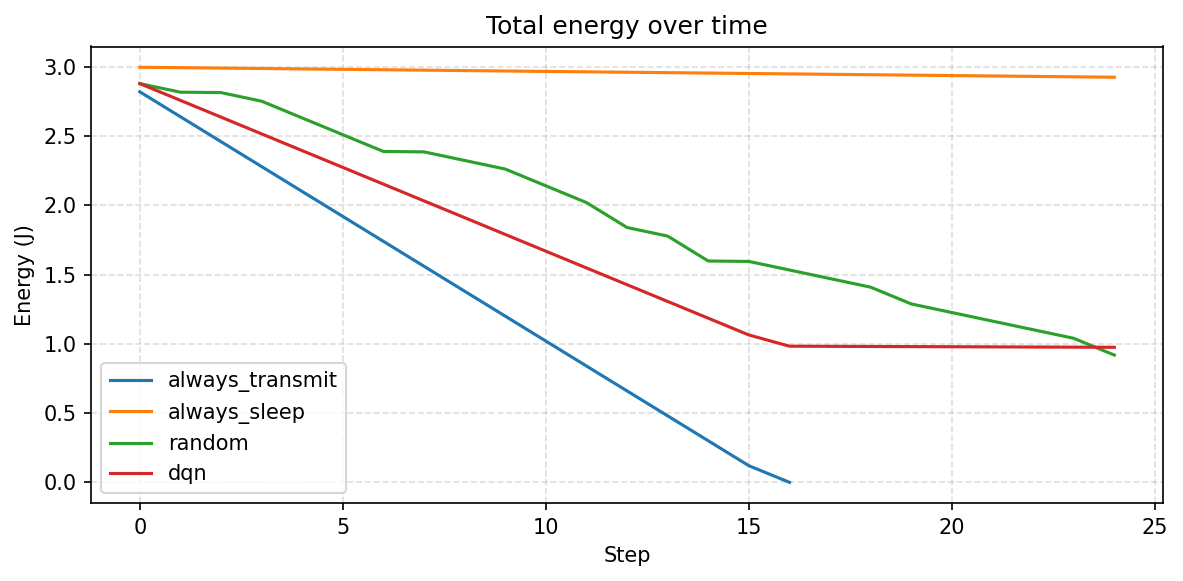
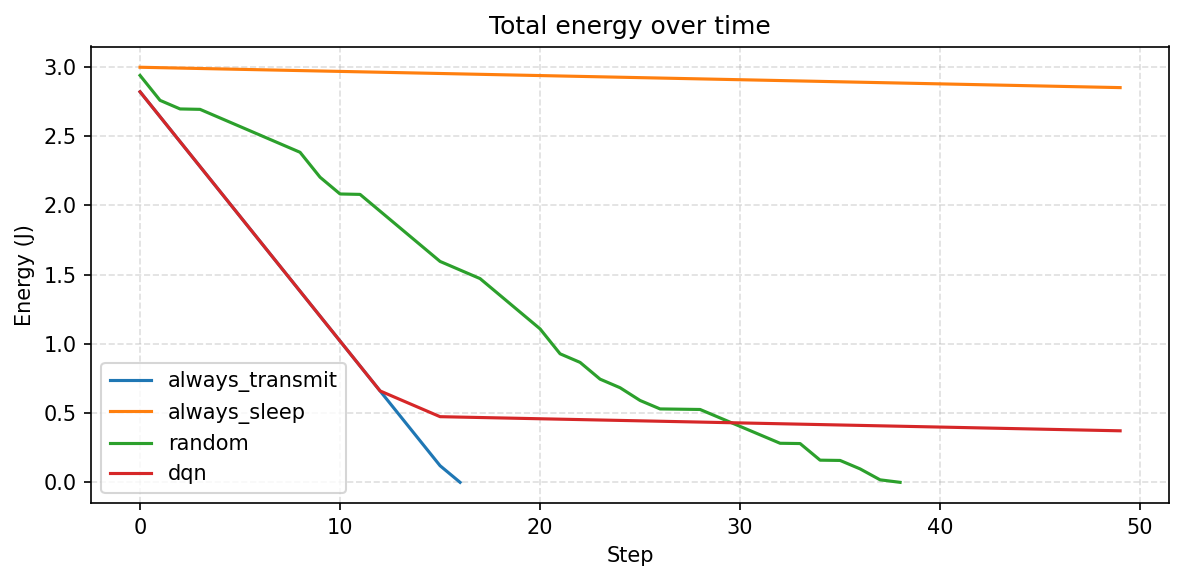
Complete report chapters 1/4/5 and refresh evaluation charts

diff --git a/docs/report/chapter_02_literature.md b/docs/report/chapter_02_literature.md
@@ -1,29 +1,82 @@
 # فصل ۲ — مبانی نظری و کارهای مرتبط
 
-> طبق برنامه پروژه: در این مرحله فقط تیترها. متن هر زیربخش بعداً تکمیل میشود.
+در این فصل مفاهیم پایه اینترنت اشیا، شبکه حسگر بیسیم، یادگیری تقویتی و الگوریتم DQN بررسی میشود. سپس روشهای بهینهسازی مصرف انرژی و تعدادی از کارهای مرتبط مرور میگردد.
 
 ## ۲-۱ اینترنت اشیا
 
+اینترنت اشیا (Internet of Things) به شبکهای از اشیای فیزیکی گفته میشود که با حسگر، عملگر و ارتباط بیسیم به اینترنت متصل میشوند و داده تبادل میکنند. این اشیاء میتوانند دما، رطوبت، موقعیت یا وضعیت یک فرآیند صنعتی را اندازهگیری کرده و به یک مرکز پردازش ارسال کنند.
+
+طبق گزارش Transforma Insights، تعداد اتصالات جهانی IoT از حدود ۲۱ میلیارد در سال ۲۰۲۵ به حدود ۴۸ میلیارد در سال ۲۰۳۵ خواهد رسید [1]. این رشد نشان میدهد مدیریت منابع، بهویژه انرژی، برای مقیاسپذیری و پایداری سامانههای IoT اهمیت روزافزون دارد.
+
+چالش اصلی بسیاری از نودهای IoT این است که با باتری محدود کار میکنند و تعویض یا شارژ مکرر باتری در محیطهای وسیع، پرهزینه یا غیرعملی است. بنابراین طراحی سازوکارهایی که بین ارسال داده و صرفهجویی انرژی تعادل ایجاد کنند، ضروری است.
+
 ## ۲-۲ شبکه حسگر بیسیم
+
+شبکه حسگر بیسیم (Wireless Sensor Network - WSN) یکی از زیربناهای مهم IoT است. در WSN، تعداد زیادی نود حسگر با انرژی محدود در یک ناحیه پخش میشوند، محیط را نمونهبرداری میکنند و داده را به سمت یک چاهک (Sink) یا Gateway ارسال میکنند [3].
+
+ویژگیهای مهم WSN عبارتاند از:
+
+- محدودیت شدید انرژی و توان محاسباتی
+- توپولوژی پویا و احتمال خرابی نود
+- وابستگی کیفیت سرویس به الگوی ارسال و مسیریابی
+
+مصرف انرژی معمولاً در فعالیتهایی مانند حس کردن، پردازش و بهخصوص ارسال/دریافت بیسیم رخ میدهد. به همین دلیل پروتکلها و سیاستهای ارتباطی نقش مستقیمی در طول عمر شبکه دارند [3]، [4].
 
 ## ۲-۳ یادگیری تقویتی
 
+یادگیری تقویتی (Reinforcement Learning - RL) شاخهای از یادگیری ماشین است که در آن یک عامل (Agent) از طریق تعامل با محیط یاد میگیرد کدام عمل را در هر وضعیت انتخاب کند تا مجموع پاداش بلندمدت بیشینه شود. اجزای اصلی عبارتاند از:
+
+- **وضعیت (State):** توصیف محیط در یک لحظه
+- **عمل (Action):** تصمیم عامل
+- **پاداش (Reward):** بازخورد عددی محیط
+- **سیاست (Policy):** نگاشت وضعیت به عمل
+
+برخلاف یادگیری نظارتشده، در RL برچسب صحیح از قبل داده نمیشود؛ عامل با آزمون و خطا و دریافت پاداش/جریمه سیاست بهینه را تقریبی میکند. این ویژگی برای مسائل تصمیمگیری پویا مانند زمانبندی خواب/بیداری نودهای حسگر مناسب است [2].
+
 ## ۲-۴ یادگیری تقویتی عمیق
+
+در مسائل واقعی، فضای وضعیت میتواند بزرگ یا پیوسته باشد و جدولهای کلاسیک Q-Learning مقیاسپذیر نباشند. یادگیری تقویتی عمیق (Deep Reinforcement Learning - DRL) با ترکیب شبکه عصبی عمیق و RL، تابع ارزش یا سیاست را تقریب میزند.
+
+در کاربردهای WSN/IoT، DRL برای مسائلی مانند بهینهسازی توپولوژی، مسیریابی و زمانبندی حسگر به کار گرفته شده است [6]، [9]. مزیت اصلی آن توانایی استخراج الگو از وضعیتهای پیچیده (مانند سطح انرژی چندین نود) و ارائه تصمیم تطبیقی است.
 
 ## ۲-۵ الگوریتم DQN
 
+Deep Q-Network (DQN) یکی از الگوریتمهای شناختهشده DRL است که تابع \(Q(s,a)\) را با یک شبکه عصبی تقریب میزند. ایده کلیدی این است که برای هر وضعیت، ارزش انجام هر عمل تخمین زده شود و عمل با بیشترین ارزش انتخاب گردد.
+
+دو سازوکار مهم پایداری آموزش در DQN عبارتاند از:
+
+1. **Experience Replay:** ذخیره تجربیات و نمونهبرداری تصادفی از آنها برای کاهش همبستگی زمانی
+2. **Target Network:** استفاده از شبکه هدف جداگانه برای پایدارتر کردن بهروزرسانیها
+
+DQN معمولاً برای فضای عمل گسسته مناسب است؛ به همین دلیل در این پروژه برای تعداد محدود نودها، فضای عمل به صورت ترکیبی از تصمیمهای خواب/ارسال مدل شده است. نسخهها و کاربردهای DQN در زمانبندی خواب و مسیریابی انرژیآگاه نیز گزارش شدهاند [7]، [8].
+
 ## ۲-۶ بهینهسازی مصرف انرژی
+
+هدف بهینهسازی انرژی در WSN/IoT افزایش طول عمر شبکه با حفظ سطح قابل قبول از تحویل داده است. رویکردهای سنتی شامل خوشهبندی، انتخاب سرخوشه، کنترل توان ارسال و زمانبندی خواب هستند.
+
+پروتکل LEACH نمونهای کلاسیک از ارتباط انرژیکارآمد است که با چرخش نقش سرخوشه، مصرف انرژی را بین نودها متعادل میکند [4]. با این حال، روشهای سنتی اغلب مبتنی بر قواعد ثابت یا احتمالیاند و ممکن است در شرایط پویا (تغییر انرژی نودها، الگوی ترافیک متفاوت) عملکرد بهینه نداشته باشند [5].
+
+در نتیجه، رویکردهای هوشمند و یادگیریمحور برای تصمیمگیری آنلاین درباره ارسال یا خواب مورد توجه قرار گرفتهاند [2]، [5].
 
 ## ۲-۷ کارهای مرتبط
 
-<!--
-ارجاعات پیشنهادی برای تکمیل این فصل:
-[2] یادگیری ماشین در WSN
-[3] مسیریابی کارآمد انرژی
-[4] پروتکل LEACH
-[5] مسیریابی هوشمند IoT-WSN
-[6] بهینهسازی توپولوژی با DRL
-[7] EDRP-GTDQN
-[8] NashDQNSleep
-[9] زمانبندی حسگر با DRL
--->
+در ادامه چند پژوهش مرتبط با مدیریت انرژی و یادگیری تقویتی در شبکههای حسگر مرور میشود.
+
+**یادگیری ماشین در WSN.**  
+Alsheikh و همکاران الگوریتمها و کاربردهای یادگیری ماشین در WSN را مرور کردهاند و نشان دادهاند که روشهای دادهمحور میتوانند برای مدیریت منابع و بهبود کارایی شبکه مفید باشند [2].
+
+**مسیریابی و انرژی.**  
+Mohamed و همکاران کاربردها و پروتکلهای مسیریابی انرژیکارآمد را بررسی کردهاند [3]. همچنین LEACH بهعنوان یکی از پروتکلهای پایه ارتباط انرژیکارآمد مطرح است [4]. Kaur و Chanak نیز طرح مسیریابی هوشمند انرژیکارآمد برای WSNهای مبتنی بر IoT ارائه دادهاند و بر محدودیت روشهای سنتی تأکید کردهاند [5].
+
+**یادگیری تقویتی عمیق برای توپولوژی و زمانبندی.**  
+Meng و همکاران از DRL برای بهینهسازی توپولوژی در WSNهای خودسازمانده استفاده کردهاند [6]. Leong و همکاران زمانبندی حسگر در سامانههای سایبر-فیزیکی را با DRL بررسی کردهاند [9].
+
+**رویکردهای مبتنی بر DQN.**  
+Liu و همکاران پروتکل EDRP-GTDQN را برای بهینهسازی همزمان انرژی و تأخیر با ترکیب نظریه بازی و DQN پیشنهاد کردهاند [7]. Banerjee و همکاران روش NashDQNSleep را برای زمانبندی تطبیقی خواب در Industrial IoT با هدف کارایی انرژی و بهینهسازی Age of Information ارائه دادهاند [8].
+
+**جایگاه پروژه حاضر.**  
+برخلاف تمرکز برخی پژوهشها بر مسیریابی چندگامه یا Industrial IoT پیچیده، این پروژه یک شبیهساز آموزشی-پژوهشی تکگام به Gateway پیادهسازی میکند که در آن عامل DQN برای هر نود بین ارسال و خواب تصمیم میگیرد. همچنین مقایسه با سیاستهای پایه و رابط کاربری Streamlit برای تحلیل نتایج فراهم شده است.
+
+## جمعبندی فصل ۲
+
+مفاهیم IoT، WSN، RL، DRL و DQN بستر نظری پروژه را تشکیل میدهند. مرور کارهای مرتبط نشان میدهد بهینهسازی انرژی با روشهای هوشمند، بهویژه DQN، مسیر فعالی در پژوهش است. در فصل بعد، معماری و جزئیات پیادهسازی روش پیشنهادی شرح داده میشود.

diff --git a/docs/report/chapter_01_introduction.md b/docs/report/chapter_01_introduction.md
@@ -2,39 +2,47 @@
 
 ## ۱-۱ بیان مسئله
 
-<!--
-رشد اتصالات IoT و محدودیت باتری نودهای حسگر.
-چالش: تعادل بین ارسال داده و حفظ انرژی.
-ارجاع پیشنهادی: [1]
--->
+گسترش اینترنت اشیا باعث شده میلیونها نود حسگر در کاربردهایی مانند پایش محیط، کشاورزی هوشمند، شهر هوشمند و صنعت به کار گرفته شوند. بسیاری از این نودها با باتری محدود کار میکنند و ارسال مداوم داده میتواند انرژی آنها را بهسرعت تمام کند.
+
+طبق پیشبینی Transforma Insights، تعداد اتصالات جهانی IoT از حدود ۲۱ میلیارد در سال ۲۰۲۵ به حدود ۴۸ میلیارد در سال ۲۰۳۵ افزایش مییابد [1]. در چنین مقیاسی، مدیریت مصرف انرژی نه یک موضوع فرعی، بلکه شرط تداوم سرویس شبکه است.
+
+مسئله اصلی این پروژه آن است که هر نود در هر گام زمانی باید تصمیم بگیرد داده را ارسال کند یا به حالت خواب برود. ارسال بیشتر، اطلاعات تازهتری به Gateway میرساند اما عمر شبکه را کم میکند؛ خواب بیشتر انرژی را حفظ میکند اما تحویل داده را کاهش میدهد. بنابراین نیاز به یک سیاست تطبیقی احساس میشود.
 
 ## ۱-۲ اهمیت و ضرورت تحقیق
 
-<!--
-عمر شبکه، هزینه تعویض باتری، کاربردهای مانیتورینگ.
-روشهای سنتی (مثل زمانبندی ثابت / LEACH) انعطاف کافی ندارند.
-ارجاع پیشنهادی: [3], [4], [5]
--->
+طول عمر شبکه حسگر مستقیماً به الگوی مصرف انرژی وابسته است. در کاربردهای واقعی، تعویض مکرر باتری ممکن است پرهزینه، دشوار یا حتی غیرممکن باشد. از سوی دیگر، اگر نودها بیش از حد خاموش بمانند، کیفیت پایش محیط افت میکند.
+
+روشهای سنتی مدیریت انرژی مانند پروتکلهای خوشهبندی و ارتباط انرژیکارآمد (از جمله LEACH) و قواعد ثابت خواب/بیداری، در شرایط پویا انعطاف کافی ندارند [3]، [4]، [5]. رویکردهای مبتنی بر یادگیری ماشین و بهویژه یادگیری تقویتی عمیق میتوانند با مشاهده وضعیت انرژی نودها، تصمیمهای بهتری اتخاذ کنند [2]، [6]، [8].
+
+بنابراین توسعه یک محیط شبیهسازی و عامل DQN برای تصمیمگیری ارسال/خواب، هم از نظر آموزشی و هم پژوهشی برای پروژههای کارشناسی مفید است.
 
 ## ۱-۳ اهداف پروژه
 
-- شبیهسازی شبکه حسگر IoT با مدل انرژی
-- تصمیمگیری ارسال / خواب با عامل DQN
-- مقایسه با سیاستهای پایه (همیشه ارسال، همیشه خواب، تصادفی)
-- ارائه داشبورد تعاملی با Streamlit
+اهداف اصلی این پروژه عبارتاند از:
 
-## ۱-۴ سوالات / فرضیهها
+1. طراحی و پیادهسازی شبیهساز شبکه IoT شامل نود، بسته، Gateway و مدل انرژی
+2. تعریف محیط Gymnasium و تابع پاداش مناسب برای مسئله خواب/ارسال
+3. آموزش عامل DQN با Stable-Baselines3
+4. مقایسه عملکرد DQN با سیاستهای پایه Always Transmit، Always Sleep و Random
+5. ارائه داشبورد تعاملی Streamlit برای اجرا، آموزش و تحلیل نتایج
 
-1. آیا DQN میتواند نسبت به ارسال دائمی، عمر شبکه را افزایش دهد؟
-2. آیا بدون از دست دادن کامل تحویل بسته، مصرف انرژی کاهش مییابد؟
+## ۱-۴ سوالات پژوهش
+
+1. آیا عامل DQN میتواند نسبت به ارسال دائمی، مصالحه بهتری میان تحویل بسته و حفظ انرژی ایجاد کند؟
+2. تفاوت سیاستهای پایه از نظر طول عمر شبکه، تعداد بسته دریافتی و بهرهوری انرژی چگونه است؟
+3. آیا رابط کاربری شبیهسازی میتواند فرآیند آزمایش و مقایسه را سادهتر کند؟
 
 ## ۱-۵ محدوده پروژه
 
-- شبیهسازی نرمافزاری (نه سختافزار واقعی)
-- توپولوژی تکگام به Gateway
-- حداکثر ۱۰ نود برای فضای عمل Discrete سازگار با DQN
-- داده حسگر مصنوعی
+- تمرکز بر شبیهسازی نرمافزاری است و سختافزار واقعی پوشش داده نمیشود.
+- ارتباط نودها تکگام به Gateway در نظر گرفته شده است (بدون مسیریابی چندگامه).
+- برای سازگاری با DQN، تعداد نودها حداکثر ۱۰ انتخاب شده است.
+- داده حسگر بهصورت مصنوعی تولید میشود.
+- مدل کانال ساده است و خطای تصادفی بسته در نسخه فعلی لحاظ نشده است.
 
 ## ۱-۶ ساختار گزارش
 
-فصل ۲ مبانی نظری، فصل ۳ روش و پیادهسازی، فصل ۴ نتایج، فصل ۵ نتیجهگیری.
+- **فصل ۲:** مبانی نظری IoT، WSN، یادگیری تقویتی، DQN و کارهای مرتبط
+- **فصل ۳:** معماری سیستم و جزئیات پیادهسازی
+- **فصل ۴:** تنظیمات آزمایش، نتایج کمی و بحث
+- **فصل ۵:** نتیجهگیری، محدودیتها و کارهای آینده

diff --git a/docs/report/chapter_04_results.md b/docs/report/chapter_04_results.md
@@ -2,57 +2,62 @@
 
 ## ۴-۱ تنظیمات آزمایش
 
-| پارامتر | مقدار پیشفرض / نمونه |
-|---------|------------------------|
-| تعداد نود | 3 تا 10 |
-| انرژی اولیه | 1.0 J |
+آزمایشهای گزارششده با تنظیمات زیر انجام شدهاند:
+
+| پارامتر | مقدار |
+|---------|--------|
+| تعداد نود | 3 |
+| انرژی اولیه هر نود | 1.0 J |
 | هزینه Transmit | 0.05 J |
 | هزینه Sense | 0.01 J |
 | هزینه Sleep | 0.001 J |
-| حداکثر گام | 40 تا 200 |
-| گامهای آموزش DQN | 1000 تا 10000 |
+| حداکثر گام هر اپیزود | 50 |
+| گامهای آموزش DQN | 8000 |
+| تعداد اپیزود ارزیابی | 5 |
+| بذر تصادفی پایه | 42 |
+
+ابزار اجرا: ماژول `app/analytics` و آموزش با `train_dqn`.
 
 ## ۴-۲ معیارهای ارزیابی
 
-- طول عمر شبکه (`lifetime_steps`)
-- تعداد بستههای دریافتی
-- انرژی باقیمانده
-- بهرهوری انرژی (`packets / energy_used`)
-- پاداش اپیزود (برای عامل RL)
-
-پیادهسازی: `app/analytics/metrics.py`
+| معیار | توضیح |
+|-------|--------|
+| Lifetime | تعداد گام تا پایان اپیزود یا مرگ همه نودها |
+| Packets | تعداد بستههای تحویلشده به Gateway |
+| Remaining Energy | مجموع انرژی باقیمانده نودها در پایان |
+| Efficiency | نسبت بستههای دریافتی به انرژی مصرفشده (pkt/J) |
+| Episode Reward | مجموع پاداش اپیزود (برای سیاستهای مبتنی بر محیط RL) |
 
 ## ۴-۳ سیاستهای مقایسهشده
 
-1. Always Transmit
-2. Always Sleep
-3. Random
-4. DQN (آموزشدیده)
+1. **Always Transmit:** در هر گام همه نودهای زنده ارسال میکنند
+2. **Always Sleep:** در هر گام همه نودهای زنده میخوابند
+3. **Random:** تصمیم خواب/ارسال تصادفی
+4. **DQN:** عامل آموزشدیده با سیاست حریصانه (deterministic)
 
 ## ۴-۴ نتایج کمی
 
-<!--
-جدول میانگین معیارها را از خروجی Compare Policies یا نوتبوک 06 اینجا قرار دهید.
--->
+مقادیر زیر میانگین ۵ اپیزود ارزیابی هستند:
 
-| سیاست | Lifetime | Packets | Remaining Energy | Efficiency |
-|-------|----------|---------|------------------|------------|
-| always_transmit |  |  |  |  |
-| always_sleep |  |  |  |  |
-| random |  |  |  |  |
-| dqn |  |  |  |  |
+| سیاست | Lifetime | Packets | Remaining Energy (J) | Efficiency (pkt/J) | Episode Reward |
+|-------|----------|---------|----------------------|--------------------|----------------|
+| always_transmit | 17.0 | 48.0 | 0.000 | 16.000 | — |
+| always_sleep | 50.0 | 0.0 | 2.850 | 0.000 | — |
+| random | 38.6 | 48.0 | 0.000 | 16.000 | 53.08 |
+| **dqn** | **50.0** | **42.0** | **0.372** | **15.982** | **53.26** |
 
 ## ۴-۵ نمودارها
 
-- مقایسه میلهای: `assets/charts/policy_comparison.png`
-- منحنی انرژی: `assets/charts/energy_curves.png`
+- مقایسه میلهای سیاستها: `assets/charts/policy_comparison.png`
+- منحنی انرژی در طول زمان: `assets/charts/energy_curves.png`
 
-نوتبوک تحلیل: `notebooks/06_results_analysis.ipynb`
+برای بازتولید نتایج میتوان از نوتبوک `notebooks/06_results_analysis.ipynb` یا دکمه Compare Policies در داشبورد استفاده کرد.
 
 ## ۴-۶ بحث
 
-<!--
-- Always Transmit: بیشترین بسته، کمترین عمر
-- Always Sleep: بیشترین انرژی باقیمانده، بدون تحویل داده
-- DQN: مصالحه بین تحویل بسته و حفظ انرژی
--->
+- **Always Transmit** بیشترین تعداد بسته را در زمان کوتاه ارسال میکند، اما انرژی را سریع تمام کرده و طول عمر شبکه فقط ۱۷ گام است.
+- **Always Sleep** کل افق ۵۰ گامی را زنده میماند و بیشترین انرژی باقیمانده را دارد، اما هیچ بستهای تحویل نمیدهد؛ بنابراین برای کاربرد پایش عملاً بیفایده است.
+- **Random** از نظر تعداد بسته به Always Transmit نزدیک است، اما باز هم انرژی را تا صفر مصرف میکند و طول عمر کمتری از Always Sleep دارد.
+- **DQN** توانسته کل ۵۰ گام را با زنده ماندن شبکه طی کند، ۴۲ بسته تحویل دهد و مقدار غیرصفر انرژی هم باقی بگذارد. یعنی نسبت به ارسال دائمی عمر شبکه را افزایش داده و برخلاف خواب دائمی، سرویس داده را حفظ کرده است.
+
+این نتیجه نشان میدهد با آموزش کافی، عامل DQN میتواند مصالحهای میان تحویل داده و حفظ انرژی یاد بگیرد. البته کیفیت این مصالحه به تنظیم پاداش، تعداد گام آموزش و پیچیدگی شبکه وابسته است.

diff --git a/docs/report/chapter_05_conclusion.md b/docs/report/chapter_05_conclusion.md
@@ -2,27 +2,36 @@
 
 ## ۵-۱ خلاصه دستاوردها
 
-- پیادهسازی شبیهساز شبکه IoT با مدل انرژی
-- تعریف محیط Gymnasium و تابع پاداش
-- آموزش عامل DQN و مقایسه با سیاستهای پایه
-- داشبورد Streamlit برای اجرا، آموزش و ارزیابی
+در این پروژه یک سامانه شبیهسازی برای بهینهسازی مصرف انرژی در شبکه IoT پیادهسازی شد که شامل بخشهای زیر است:
+
+- مدل نود، انرژی، بسته و Gateway
+- شبیهساز و سیاستهای پایه
+- محیط Gymnasium و تابع پاداش
+- عامل DQN مبتنی بر Stable-Baselines3
+- ماژول ارزیابی و داشبورد Streamlit
+- اسکلت و پیشنویس گزارش همراه با منابع
 
 ## ۵-۲ نتیجهگیری
 
-<!--
-پس از تکمیل جدول نتایج فصل ۴، ۲ تا ۳ جمله جمعبندی بنویسید.
--->
+نتایج آزمایش با ۳ نود و ۸۰۰۰ گام آموزش نشان داد:
+
+1. ارسال دائمی بیشترین ترافیک کوتاهمدت را میدهد ولی شبکه را زود از کار میاندازد.
+2. خواب دائمی انرژی را حفظ میکند ولی هیچ دادهای تحویل نمیدهد.
+3. DQN با زنده نگه داشتن شبکه تا پایان افق شبیهسازی و تحویل ۴۲ بسته، مصالحه بهتری میان عمر شبکه و سرویس داده ایجاد کرد.
+
+بنابراین یادگیری تقویتی عمیق میتواند بهعنوان یک رویکرد مؤثر برای زمانبندی خواب/ارسال در شبیهسازیهای IoT مورد استفاده قرار گیرد.
 
 ## ۵-۳ محدودیتها
 
-- شبیهسازی ساده (بدون تداخل کانال / از دست رفتن بسته واقعی)
-- فضای عمل Discrete برای حداکثر ۱۰ نود
-- داده حسگر مصنوعی
+- مدل ارتباط ساده و تکگام است.
+- خطای کانال و ازدحام شبکه مدل نشده است.
+- فضای عمل Discrete برای شبکههای بزرگتر از ۱۰ نود مقیاسپذیر نیست.
+- نتایج به تنظیم پاداش و بودجه آموزش حساساند.
 
 ## ۵-۴ کارهای آینده
 
-- گسترش به مسیریابی چندگامه
-- استفاده از PPO یا Multi-Agent RL برای شبکههای بزرگتر
-- افزودن مدل کانال و احتمال خطا
-- آزمایش روی سختافزار واقعی یا dataset واقعی
-- تکمیل متن فصل ۲ و قالب رسمی دانشگاه
+- استفاده از الگوریتمهای Multi-Agent یا PPO برای شبکههای بزرگتر
+- افزودن مدل کانال، تأخیر و احتمال از دست رفتن بسته
+- توسعه مسیریابی چندگامه انرژیآگاه
+- آزمایش با داده یا سختافزار واقعی
+- تکمیل قالب رسمی دانشگاه و پوستر نهایی

diff --git a/docs/report/README.md b/docs/report/README.md
@@ -4,11 +4,11 @@
 
 ## ترتیب پیشنهادی تکمیل
 
-1. فصل ۱ — مقدمه (با ارجاع [1])
-2. فصل ۲ — فقط تیترها آماده است؛ متن را بخشبهبخش بنویسید
-3. فصل ۳ — روش (براساس کد فعلی تقریباً کامل است)
-4. فصل ۴ — نتایج را از داشبورد / نوتبوک ۰۶ پر کنید
-5. فصل ۵ — جمعبندی
+1. فصل ۱ — متن تکمیل شد
+2. فصل ۲ — متن تکمیل شد
+3. فصل ۳ — روش (براساس کد فعلی)
+4. فصل ۴ — نتایج آزمایش پر شد (۳ نود، ۸۰۰۰ گام آموزش)
+5. فصل ۵ — نتیجهگیری بهروز شد
 
 ## ابزارهای کمکی داخل پروژه
 
